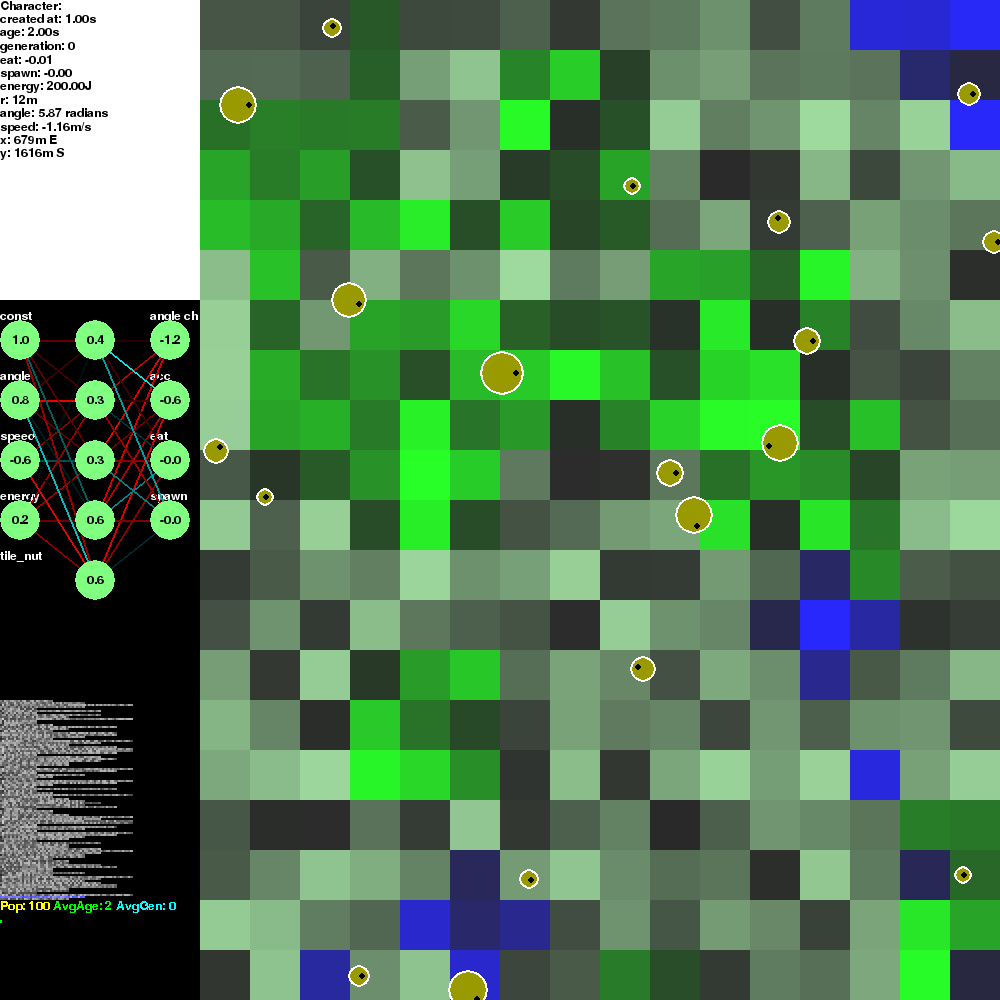
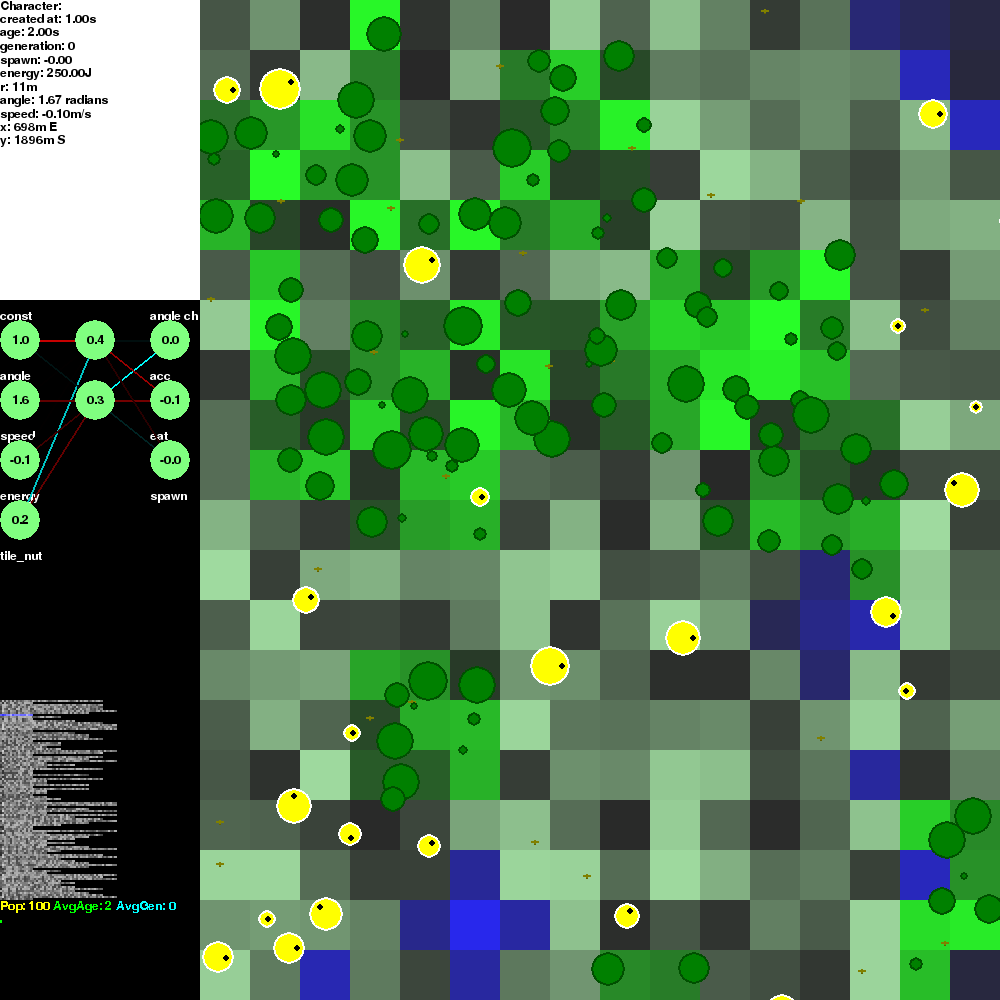
Add food back in; characters eat upon collision.

diff --git a/novel-evolve/characters.py b/novel-evolve/characters.py
@@ -114,7 +114,7 @@ if use_numpy:
 
 class Character(pygame.sprite.Sprite):
     brain_inputs = 4
-    brain_outputs = 4
+    brain_outputs = 3
     def __init__(self, world, radius):
         super(Character, self).__init__()
 
@@ -134,10 +134,9 @@ class Character(pygame.sprite.Sprite):
         self._acceleration = 0.0 # m/s^2
 
         self._energy = 300 # J
-        self._energy_burn_rate = 50 # J/s
+        self._energy_burn_rate = 25 # J/s
         self._age = 0.0 # s
         self.gen = 0
-        self._eat = 0.0 # > 0 means eat
         self._spawn = 0.0 # > 0 means try to reproduce
 
         self.brain = None
@@ -190,7 +189,7 @@ class Character(pygame.sprite.Sprite):
         self.brain = Brain(input_weights, output_weights)
         self._genome = genome
         return self
-    
+
     def _draw_border(self, colour):
         pygame.draw.lines(self.image, colour, 1, [
             (0, 0), (self.rect.w - 1, 0), (self.rect.w - 1, self.rect.h - 1), (0, self.rect.h - 1)
@@ -199,12 +198,12 @@ class Character(pygame.sprite.Sprite):
     def draw(self):
         self.rect.x = self._x
         self.rect.y = self._y
-        
+
         if self.world.active_item is not self:
             self._draw_border((0, 0, 0, 0))
 
         r_r = (self.r + 2, self.r + 2)
-        liveness = int(min(1.0, self._energy / 2000 + 0.5) * 255)
+        liveness = int(min(1.0, self._energy / 500 + 0.5) * 255)
         pygame.draw.circle(self.image, (255, 255, 255), r_r, self.r + 2, 0)
         pygame.draw.circle(self.image, (liveness,liveness,0), r_r, self.r, 0)
         eye_pos = list(r_r)
@@ -244,35 +243,30 @@ class Character(pygame.sprite.Sprite):
         (
             self._angle_change,
             self._acceleration,
-            self._eat,
             self._spawn,
         ) = outputs
 
         # eating:
-        #if self._eat > 0:
-        #    eating_rate = 100 # J/s
-        #    amount_to_eat = eating_rate * dt
-        #    if current_tile.nutrition > amount_to_eat:
-        #        self._energy += amount_to_eat
-        #        current_tile.nutrition -= amount_to_eat
-        
+        foods = pygame.sprite.spritecollide(self, world.allfood, 0)
+        for food in foods:
+            self._energy += 25
+            food.eaten()
+
         # reproducing:
-        if self._spawn > 0:
-            if self._energy > 500 and self._age > 5:
-                # the age limit is needed to stop a spawning loop
-                self._energy -= 500
-                newgenome = self._genome.mutate()
-                newchar = self.__class__.from_genome(world, newgenome)
-                newchar.x = self._x
-                newchar.y = self._y
-                newchar.bred = 1
-                newchar.gen = self.gen + 1
-                op = operator.sub
-                while pygame.sprite.spritecollideany(newchar, world.allcharacters):
-                    newchar.x = op(newchar.x, 1)
-                    if newchar.x < 1:
-                        op = operator.add
-                world.allcharacters.add(newchar)
+        if self._spawn and self._energy > 350 and self._age > 3:
+            self._energy -= 300
+            newgenome = self._genome.mutate()
+            newchar = self.__class__.from_genome(world, newgenome)
+            newchar.x = self._x
+            newchar.y = self._y
+            newchar.bred = 1
+            newchar.gen = self.gen + 1
+            op = operator.sub
+            while pygame.sprite.spritecollideany(newchar, world.allcharacters):
+                newchar.x = op(newchar.x, 1)
+                if newchar.x < 1:
+                    op = operator.add
+            world.allcharacters.add(newchar)
 
         # movement:
         prev_x, prev_y = self._x, self._y
@@ -284,12 +278,13 @@ class Character(pygame.sprite.Sprite):
         self.x = min(max(0, x), self.world.canvas_w - self.r)
         self.y = min(max(0, y), self.world.canvas_h - self.r)
         collided = pygame.sprite.spritecollide(self, world.allcharacters, 0)
+        collided += pygame.sprite.spritecollide(self, world.alltrees, 0)
         for item in collided:
             if item is not self:
                 self.x = prev_x
                 self.y = prev_y
                 self._speed = 0
-    
+
     @property
     def x(self):
         return self._x
@@ -297,12 +292,12 @@ class Character(pygame.sprite.Sprite):
     @x.setter
     def x(self, value):
         self._x = value
-        self.rect.x = value    
+        self.rect.x = value
 
     @property
     def y(self):
         return self._y
-    
+
     @y.setter
     def y(self, value):
         self._y = value
@@ -314,7 +309,6 @@ class Character(pygame.sprite.Sprite):
             "created at: %.2fs" % self._created,
             "age: %.2fs" % self._age,
             "generation: %d" % self.gen,
-            "eat: %.2f" % self._eat,
             "spawn: %.2f" % self._spawn,
             "energy: %.2fJ" % self._energy,
             "r: %dm" % self.r,

diff --git a/novel-evolve/worldview.py b/novel-evolve/worldview.py
@@ -4,18 +4,19 @@ import pygame
 from pygame.locals import *
 
 from novel.world import World
+from novel import terrains
 
 import viewport
 import tiles
 import characters
 import group
+import tree
 
 MIN_CHARACTERS = 100
 
 class WorldView(viewport.Viewport):
     def __init__(self, parent, viewport_rect, canvas_w, canvas_h):
         super(WorldView, self).__init__(parent, viewport_rect, canvas_w, canvas_h)
-        
 
         self.tile_w = 50
         self.tile_h = 50
@@ -23,6 +24,11 @@ class WorldView(viewport.Viewport):
 
         self.alltiles = group.Group()
         self.alltiles_coords = {}
+
+        self.alltrees = group.Group()
+        self.allfood = group.Group()
+
+        # Generate tiles and trees
         for i, row in enumerate(self.world):
             for j, tile in enumerate(row):
 
@@ -32,6 +38,12 @@ class WorldView(viewport.Viewport):
                 self.alltiles.add(block)
                 self.alltiles_coords[i, j] = block
 
+                if isinstance(tile.terrain, terrains.Forest):
+                    self.alltrees.add(tree.Tree(
+                        random.randint(4, 20), # radius
+                        random.randint(0, self.tile_w) + self.tile_w * i, # x
+                        random.randint(0, self.tile_h) + self.tile_h * j)) # y
+
         self.allcharacters = group.Group()
         self.active_item = None
         self.age = 0.0
@@ -39,7 +51,8 @@ class WorldView(viewport.Viewport):
     def _create_character(self):
         character = characters.Character.from_random(self)
         while character._x is None \
-        or pygame.sprite.spritecollideany(character, self.allcharacters):
+        or pygame.sprite.spritecollideany(character, self.allcharacters) \
+        or pygame.sprite.spritecollideany(character, self.alltrees):
             character.x = random.randint(0, self.canvas_w - character.r * 2)
             character.y = random.randint(0, self.canvas_h - character.r * 2)
         self.allcharacters.add(character)
@@ -70,7 +83,7 @@ class WorldView(viewport.Viewport):
         self.drag_offset[1] = -y
 
     def draw(self):
-        for group in (self.alltiles, self.allcharacters):
+        for group in (self.alltiles, self.allfood, self.allcharacters, self.alltrees):
             group.draw(self.canvas)
 
         if self.active_item:
@@ -92,13 +105,20 @@ class WorldView(viewport.Viewport):
                                    if s.rect.collidepoint(canvas_pos)]
 
             if clicked_sprites:
+                if self.active_item is not None \
+                and self.active_item is not clicked_sprites[0]:
+                    self.active_item.redraw = True
                 self.active_item = clicked_sprites[0]
+                self.active_item.redraw = True
                 if hasattr(self.active_item, '_genome'):
                     self.parent.brainview.brain = self.active_item.brain
                 else:
                     self.parent.brainview.brain = None
                 return
-            
+
         self.parent.brainview.brain = None
-        self.active_item = None
- 
+        if self.active_item:
+            self.active_item.redraw = True
+            self.active_item = None
+
+

diff --git a/novel-evolve/tiles.py b/novel-evolve/tiles.py
@@ -1,29 +1,38 @@
+import random
+
 import pygame
 from pygame.locals import *
 
 from novel import terrains
 
+import group
+import food
+
 class TileView(pygame.sprite.Sprite):
     def __init__(self, world, x, y, w, h, tile, fertility=1.0):
         pygame.sprite.Sprite.__init__(self)
         self.world = world
-        self._x = x
-        self._y = y
-        self._w = w
-        self._h = h
+        self.x = x
+        self.y = y
+        self.w = w
+        self.h = h
         self.tile = tile
+        self.fertility_mult = 1.0
         self.r_mult = 255
         self.g_mult = 0
         self.b_mult = 0
         if isinstance(self.tile.terrain, terrains.Meadow):
+            self.fertility_mult = 0.05
             self.r_mult = 120
             self.g_mult = 180
             self.b_mult = 120
         elif isinstance(self.tile.terrain, terrains.Lake):
+            self.fertility_mult = 0
             self.r_mult = 0
             self.g_mult = 0
             self.b_mult = 215
         elif isinstance(self.tile.terrain, terrains.Forest):
+            self.fertility_mult = 0.1
             self.r_mult = 0
             self.g_mult = 215
             self.b_mult = 0
@@ -34,29 +43,40 @@ class TileView(pygame.sprite.Sprite):
             raise ValueError('fertility must be <= 1.0')
         self.fertility = fertility
         
-        self.image = pygame.Surface((self._w, self._h)).convert()
+        self.image = pygame.Surface((self.w, self.h)).convert()
         self.image.fill((0,0,255))
-        self.last_fill = (0,0,255)
+        self.redraw = True
 
         self.rect = self.image.get_rect()
 
-        self.rect.x = self._x * self._w
-        self.rect.y = self._y * self._h
+        self.rect.x = self.x * self.w
+        self.rect.y = self.y * self.h
+
+        self.allfood = group.Group()
+        self.max_food = 10
 
     def update(self, dt):
-        pass
-        
+        # create some food
+        if len(self.allfood) < self.max_food:
+            if random.random() < (self.fertility * self.fertility_mult * dt):
+                f = food.Food(
+                    self, random.randint(0, self.w), random.randint(0, self.h))
+                self.allfood.add(f)
+                self.world.allfood.add(f)
+
     def draw(self):
+        if not self.redraw:
+            return
+        self.redraw = False
 
         new_fill = (int(self.fertility * self.r_mult + 40),
                     int(self.fertility * self.g_mult + 40),
                     int(self.fertility * self.b_mult + 40))
-        if new_fill != self.last_fill:
-            self.last_fill = new_fill
-            self.image.fill(new_fill)
+        self.last_fill = new_fill
+        self.image.fill(new_fill)
         if self.world.active_item is self:
             pygame.draw.lines(self.image, (0, 0, 255), 1, [
-                (0, 0), (self._w - 1, 0), (self._w - 1, self._h - 1), (0, self._h - 1)
+                (0, 0), (self.w - 1, 0), (self.w - 1, self.h - 1), (0, self.h - 1)
             ], 3)
             self.last_fill = None
 
